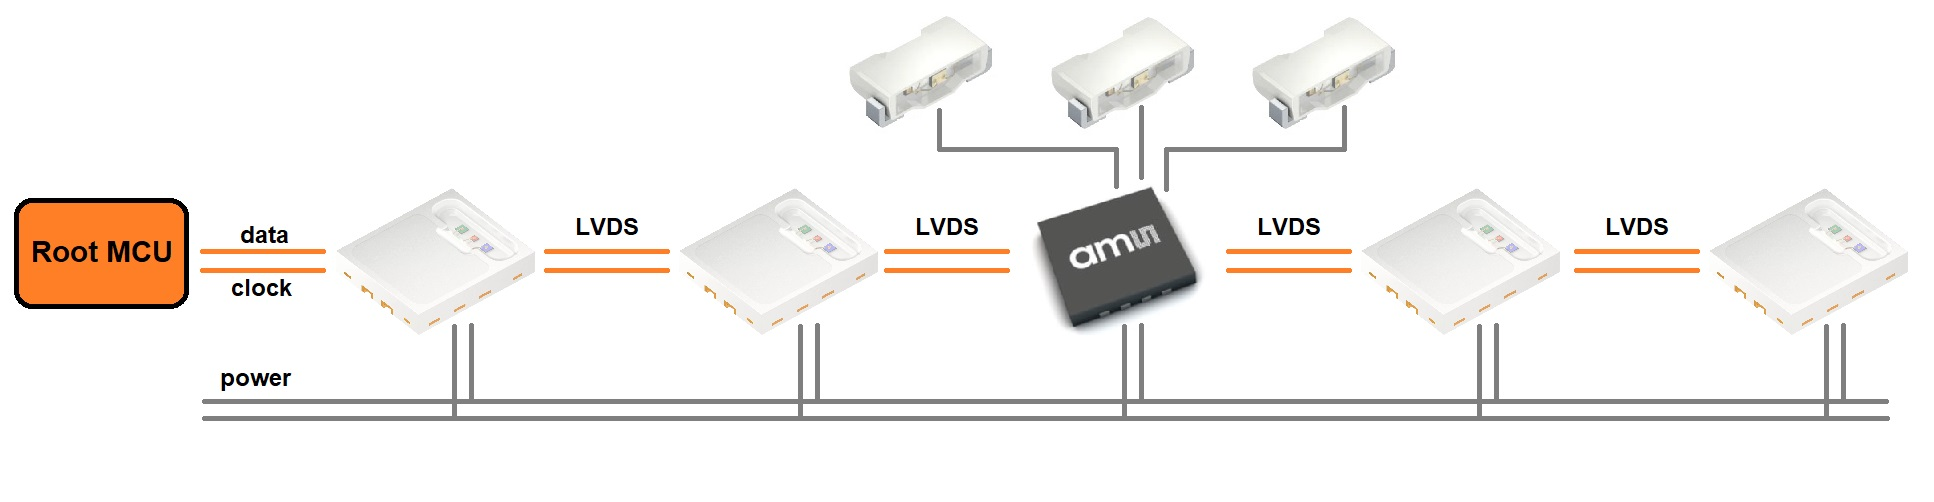
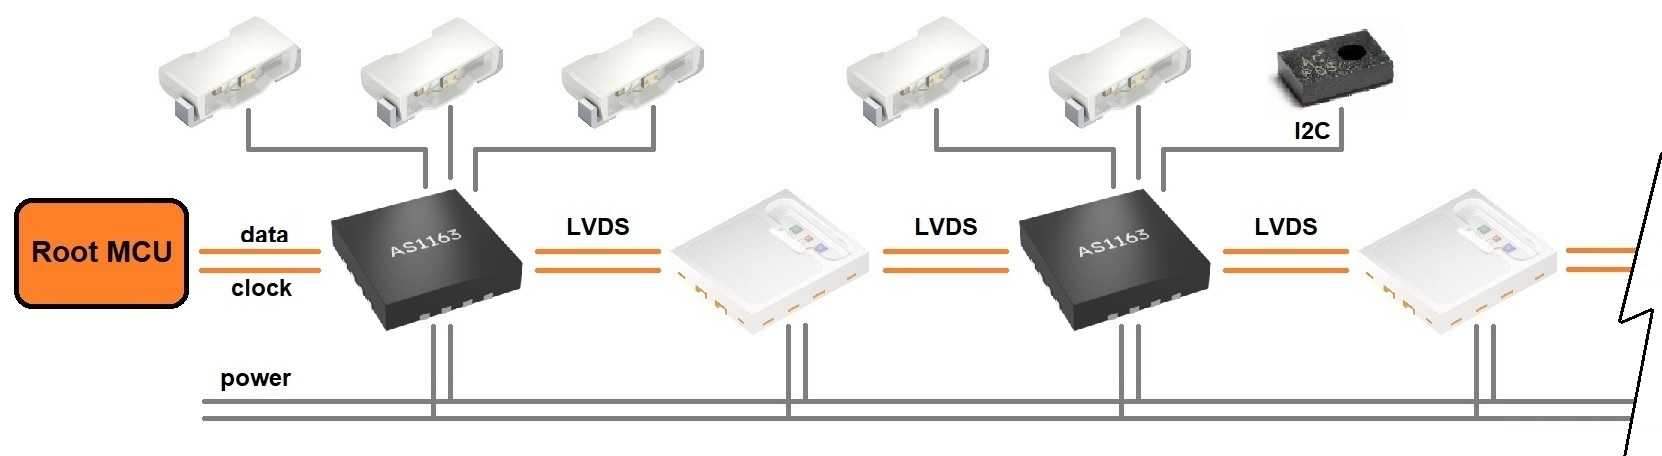
0.1.5
- Replaced OSP system picture with one having also a SAID with I2C.
- Improved labels of links.

diff --git a/src/aotop.h b/src/aotop.h
@@ -23,7 +23,7 @@
 
 
 // Identifies lib version
-#define AOTOP_VERSION "0.1.4"
+#define AOTOP_VERSION "0.1.5"
 
 // This lib does not contain reusable code, only examples and documentation.
 

diff --git a/readme.md b/readme.md
@@ -1,9 +1,9 @@
 ![OSP](extras/osp.jpg)
 # Open System Protocol (OSP) on Arduino
 
-Welcome to the landing page of the 
-**aolibs** (short for Arduino OSP libraries from ams-OSRAM) to be used 
-with the **Arduino OSP evaluation kit**.
+Welcome to the landing page of the **aolibs** 
+(short for Arduino OSP libraries from ams-OSRAM) 
+to be used with the **Arduino OSP evaluation kit**.
 
 
 ## Introduction
@@ -53,7 +53,7 @@ This section links to various resources.
 - Open System Protocol [website](https://ams-osram.com/technology/open-system-protocol).
 
 - Open System Protocol application note [OSP specification 1.0](https://look.ams-osram.com/m/36bafc7159df087a/original/OSIRE-E3731i-Open-System-Protocol-1-0.pdf).
- (todo:add/replace with v1.1)
+ (todo:add with v1.1)
 
 - OSP products
 
@@ -89,7 +89,7 @@ This section links to various resources.
   - [aospi](https://github.com/ams-OSRAM/OSP_aospi) library with _2-wire SPI_;
   - [aoresult](https://github.com/ams-OSRAM/OSP_aoresult) library with _Result codes_.
 
-  
+
 (end of top-level documentation)
 
 -----------------------------------------------------------------------------
@@ -111,9 +111,10 @@ The landing page for the _aolibs_ is on
 ## Introduction
 
 Library _aotop_ is at the top of the dependency graph.
-It contains no (library) code; but it serves several other functions
+It contains no (library) code; but it serves several other functions.
 - It contains top-level sketches for advanced demos 
   (using the Arduino IDE examples mechanism).
+  See next section for an overview.
 - It is made dependent on all Open System Protocol libraries (aolibs),
   so installing _aotop_ via the Arduino IDE will install all other 
   libraries as well.
@@ -144,10 +145,9 @@ File > Examples > OSP ToplevelSketches aotop > ...
   allows writing any script (stock or user developed) to any of these EEPROMs.
 
 - **osplink** ([source](examples/osplink))  
-  This application allows the PC (with a terminal like the Arduino Serial Monitor)
-  to send and receive OSP telegrams, using serial-over-USB.
-  
-  There is an experimental Python app for PC, that sends commands to the 
+  This application allows the PC (with a terminal like the Arduino Serial 
+  Monitor) to send and receive OSP telegrams, using serial-over-USB. 
+  There is also an experimental Python app for PC, that sends commands to the 
   OSPlink application. Please find it in 
   [`aocmd/python`](https://github.com/ams-OSRAM/OSP_aocmd/tree/main/python).
 
@@ -164,6 +164,10 @@ version of this "library".
 
 ## Version history _aotop_
 
+- **2024 October 25, 0.1.5**  
+  - Replaced OSP system picture with one having also a SAID with I2C.
+  - Improved labels of links.
+  
 - **2024 October 24, 0.1.4**  
   - Added URLs for SAID, SAIDB and Arduino OSP evaluation kit.
   - Getting Started, section Debugging, explains the USB ports in more detail.
